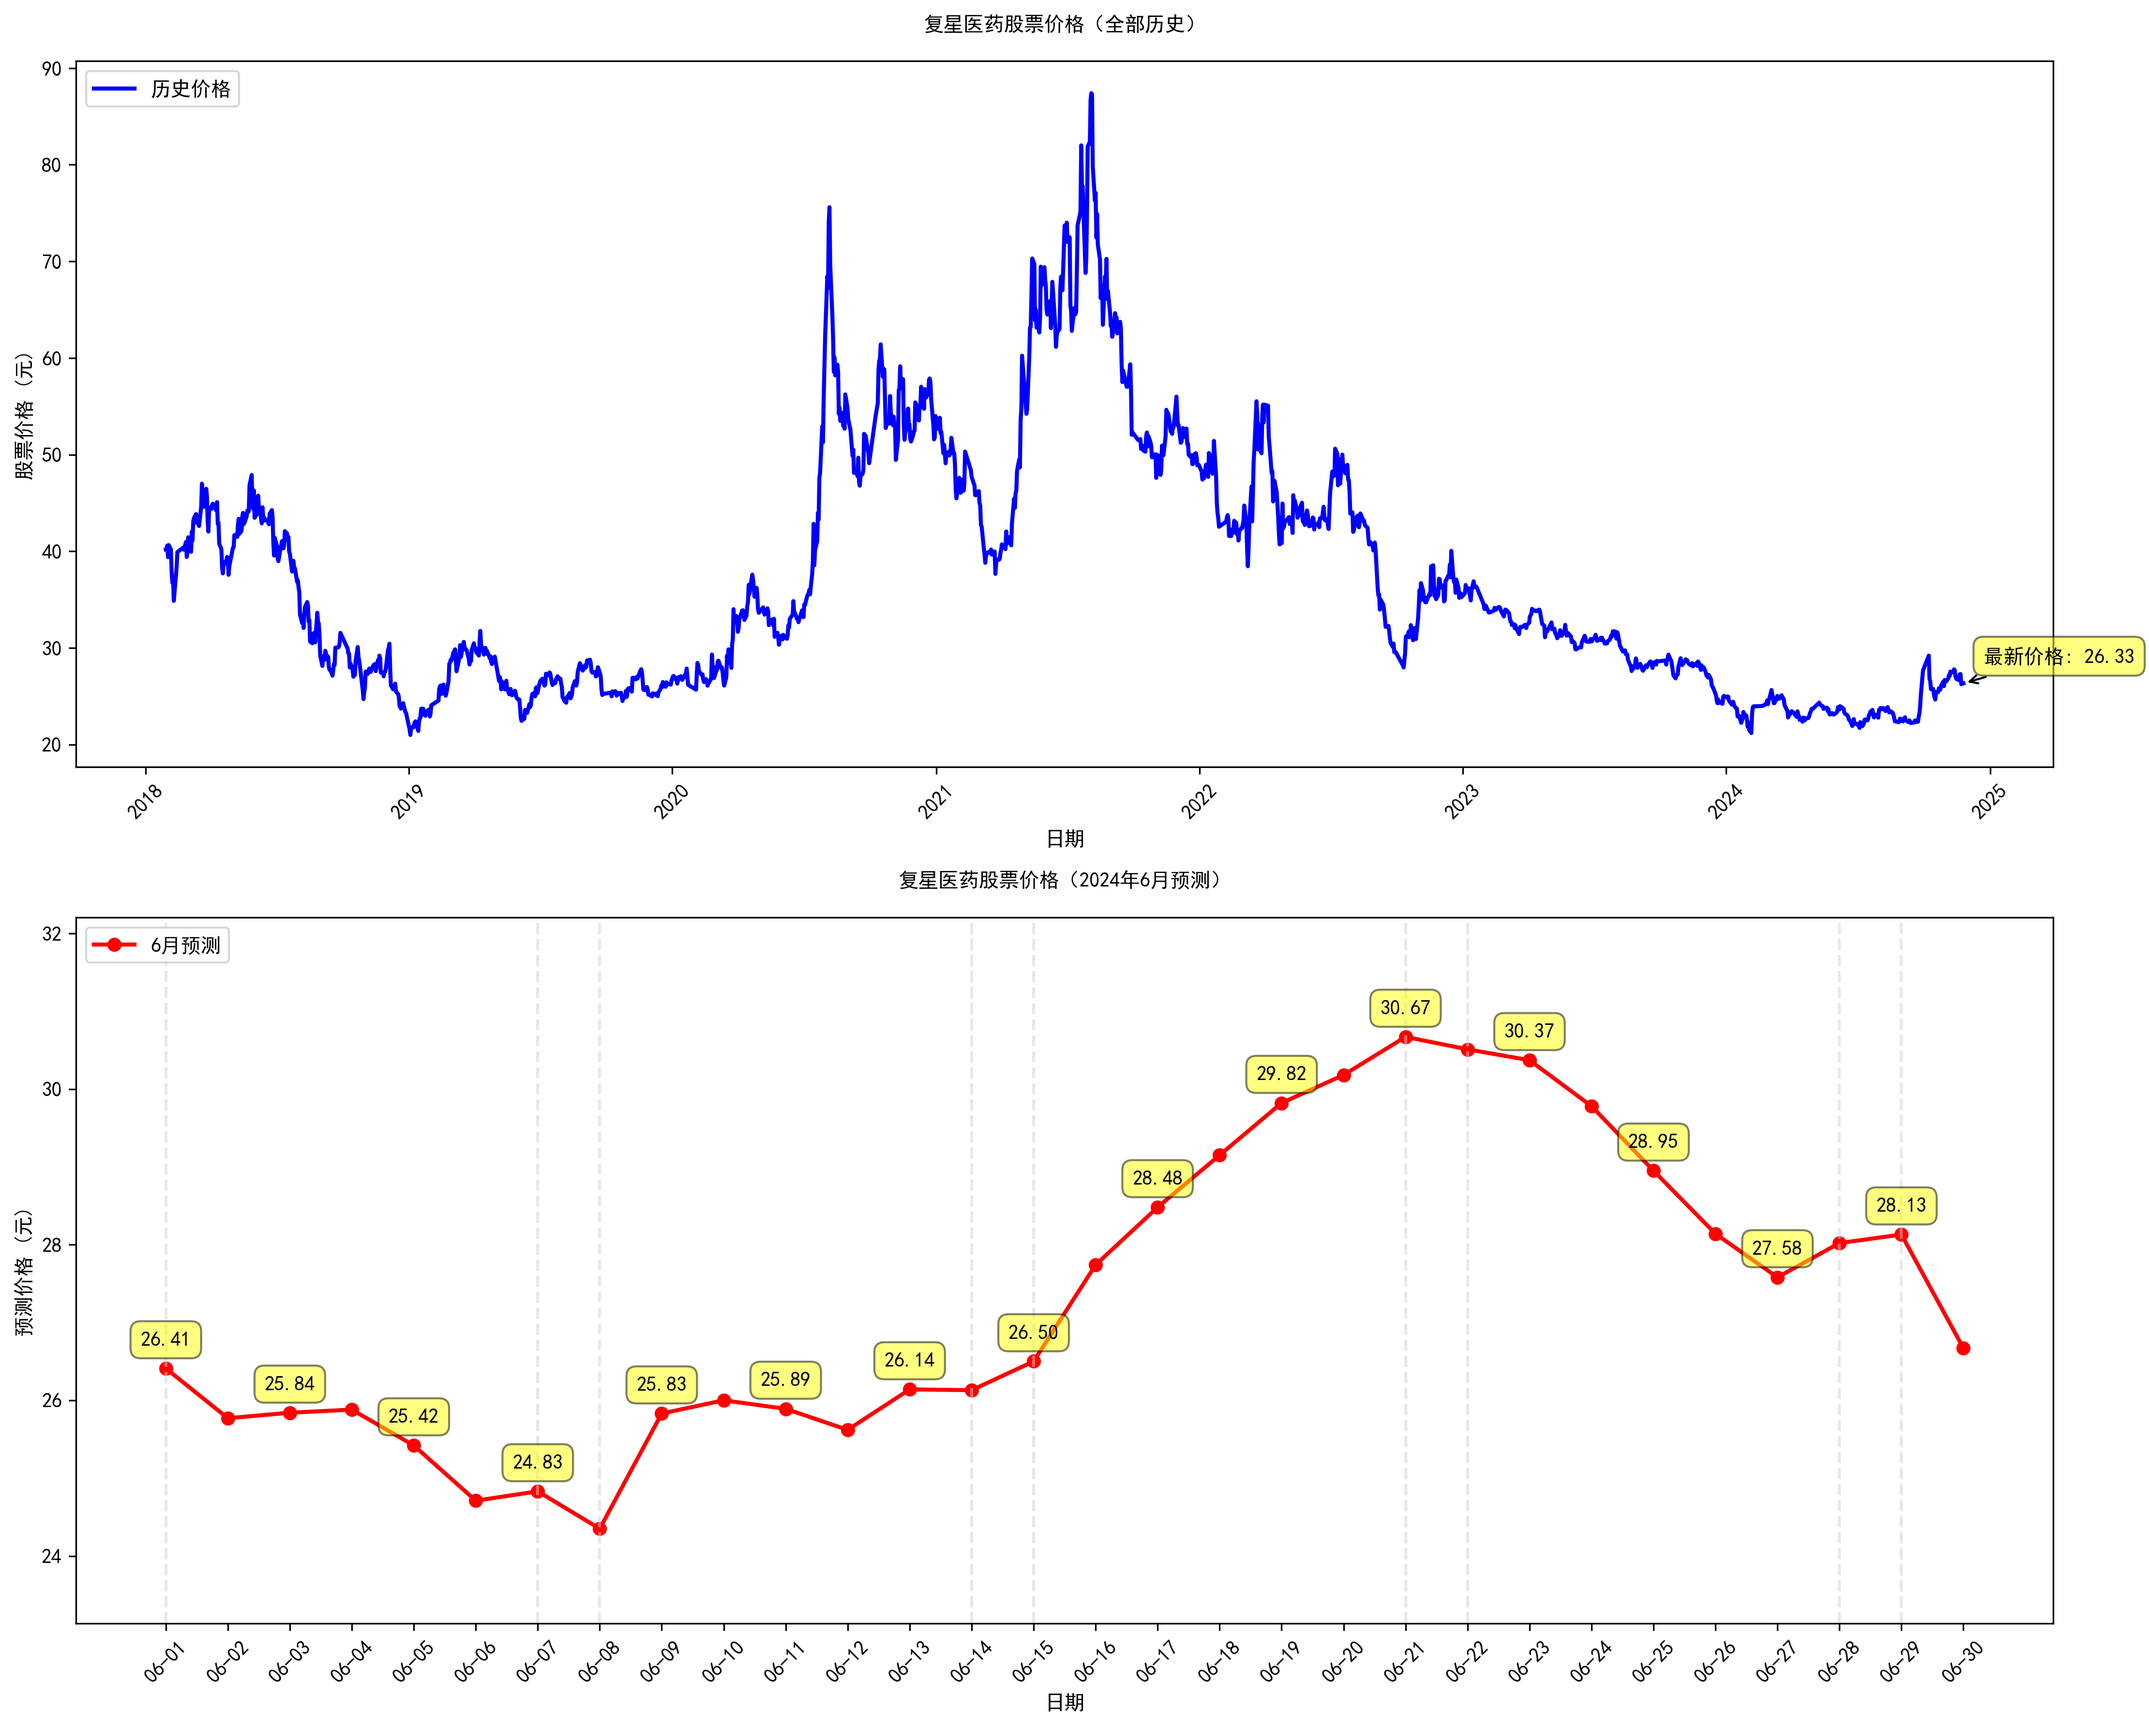
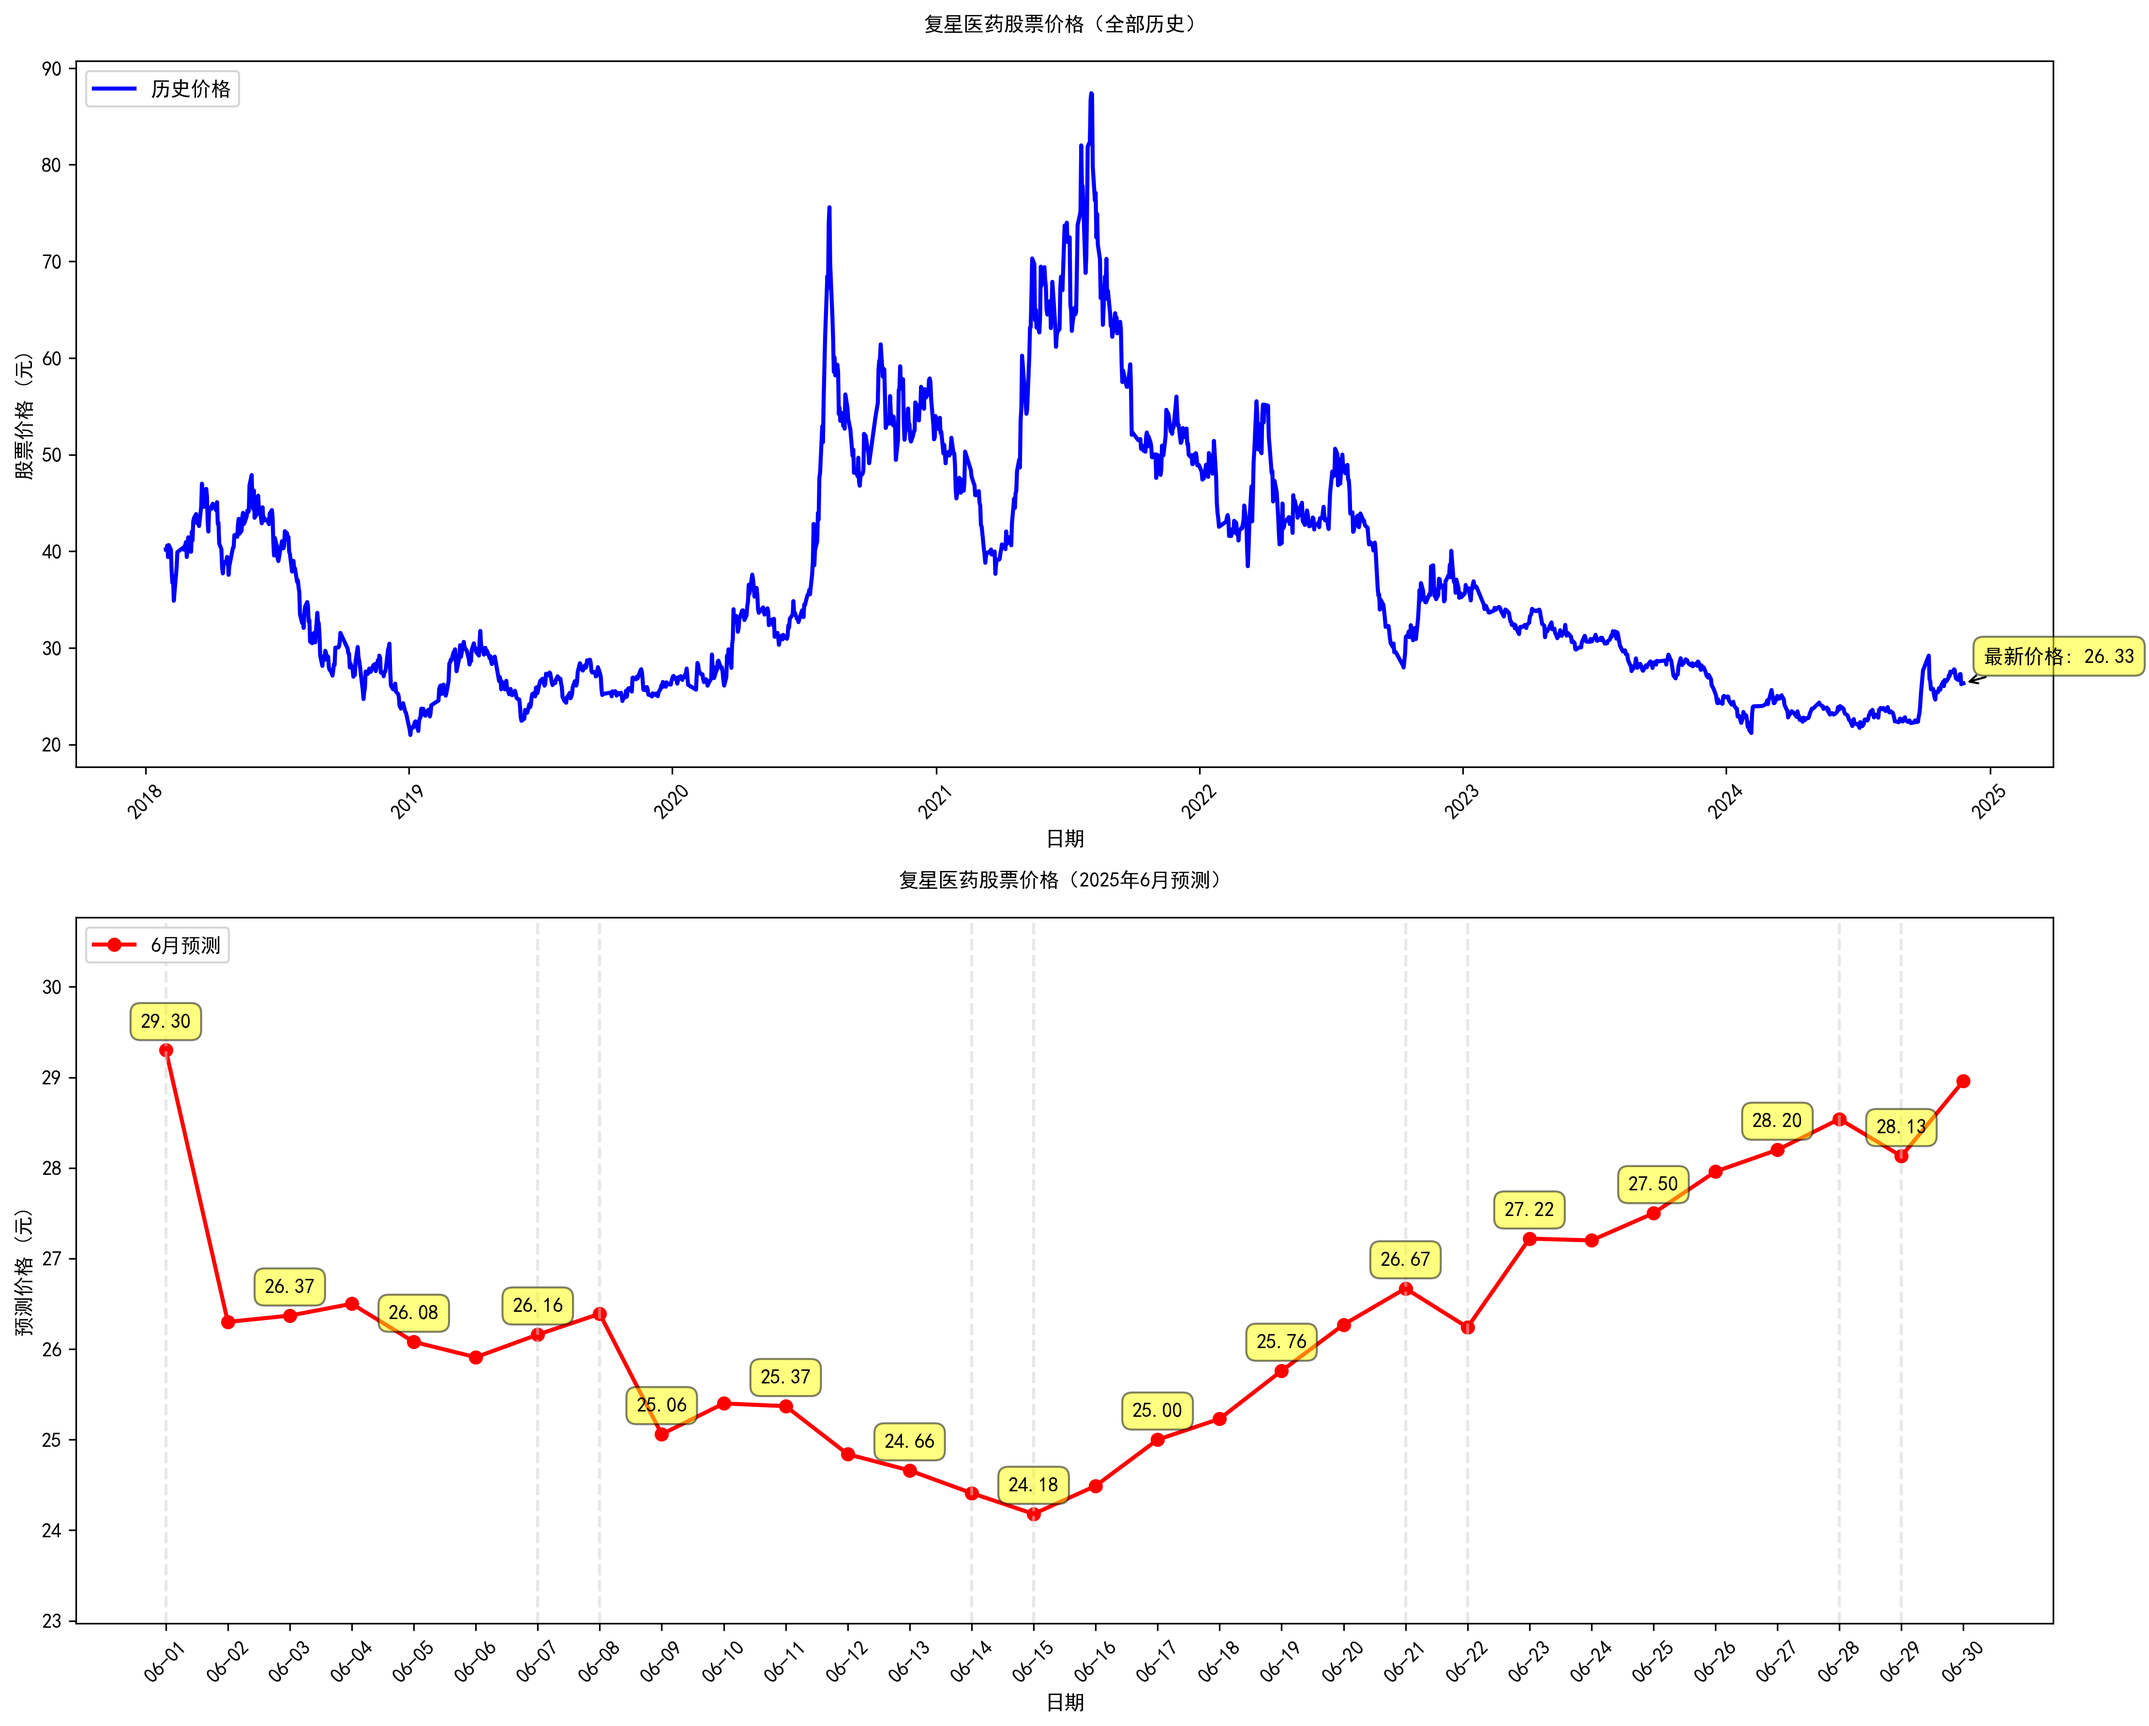
2025

diff --git a/fuxingyiyaoproject/fuxingyiyao_onemeiyueallhistory.py b/fuxingyiyaoproject/fuxingyiyao_onemeiyueallhistory.py
@@ -276,7 +276,7 @@ class FuxingyiyaoTrendPredictor:
             
             # 第二个子图：6月份预测价格
             ax2.plot(future_dates, predicted_prices, 'ro-', label='6月预测', linewidth=2)
-            ax2.set_title('复星医药股票价格（2024年6月预测）', pad=15, fontproperties='SimHei')
+            ax2.set_title('复星医药股票价格（2025年6月预测）', pad=15, fontproperties='SimHei')
             ax2.set_xlabel('日期', fontproperties='SimHei')
             ax2.set_ylabel('预测价格 (元)', fontproperties='SimHei')
             
@@ -339,7 +339,7 @@ def main():
     print(f'\n当前价格: {current_price:.2f}')
     
     # 输出6月份每日预测价格
-    print("\n2024年6月预测价格:")
+    print("\n2025年6月预测价格:")
     for date, price in zip(future_dates, predicted_prices):
         print(f"{date.strftime('%Y-%m-%d')}: {price:.2f}")
     
